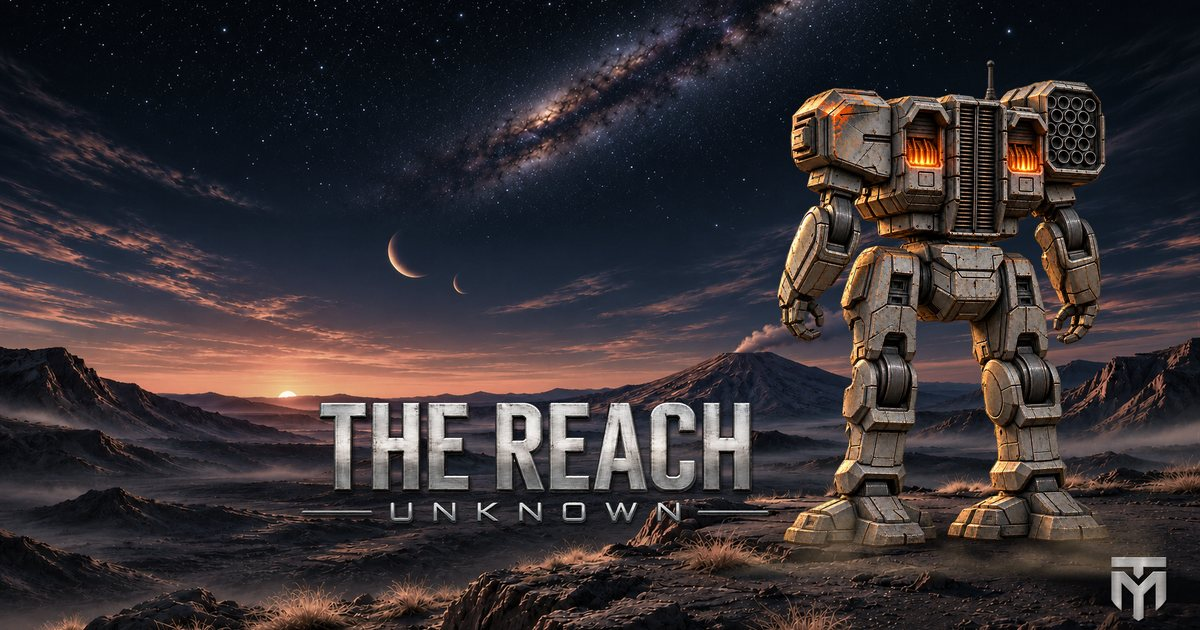
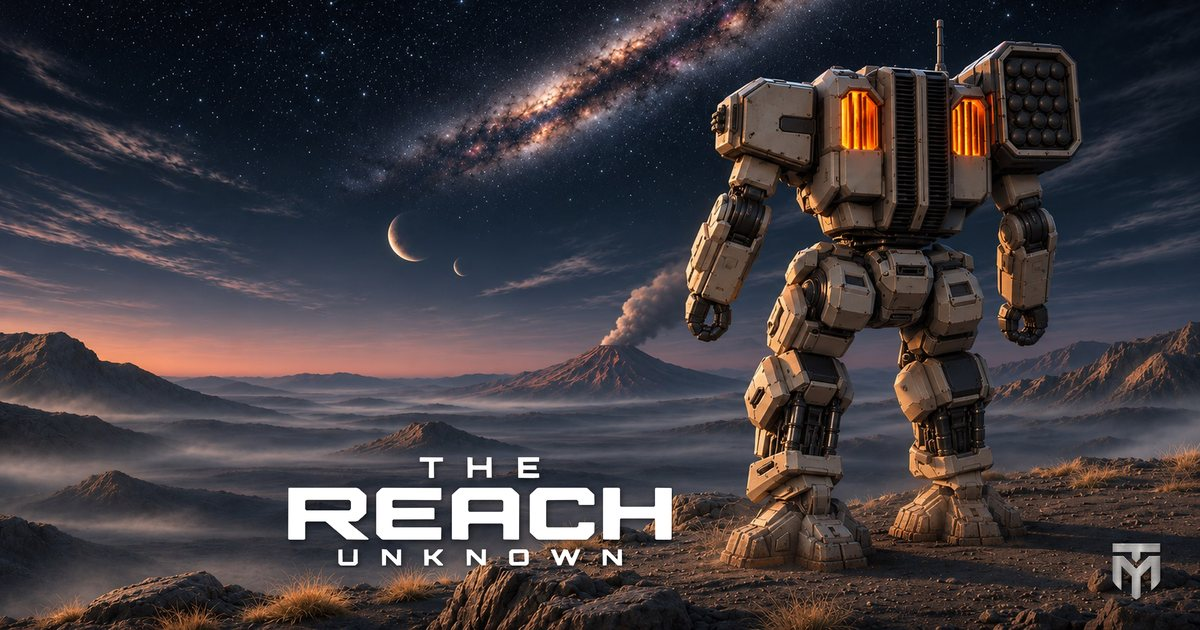
The hero is the new boot screen: VIGIL 2.0 on the ridge under two moons

diff --git a/assets/site.css b/assets/site.css
@@ -223,25 +223,20 @@ h3 { font-size: 1rem; letter-spacing: 0.14em; text-transform: uppercase; }
 /* A 16:9 stage that covers the screen, so every layer sits where the boot screen puts it
    (Assets/Resources/TitleShot/TitleShot_Layout.json). */
 .hero__stage {
-  /* When the screen is narrower than 16:9 the stage is cropped at the sides. The crop centres on 58.4%, midway
-     between the title's left edge (24.4%) and the VIGIL's right edge (92.5%), so both stay in frame down to 5:4,
-     and it never slides past either edge of the sky. */
+  /* When the screen is narrower than 16:9 the stage is cropped at the sides. The crop centres on 55%, midway
+     between the title's left edge (20%) and the VIGIL's right edge (90%, its rocket pod, in the boot screen), so both
+     stay in frame down to 5:4, and it never slides past either edge of the picture. */
   --stage-w: max(100%, max(100svh, 560px) * 16 / 9);
   position: absolute; top: 50%;
-  left: clamp(calc(100% - var(--stage-w)), calc(50% - 0.584 * var(--stage-w)), 0px);
+  left: clamp(calc(100% - var(--stage-w)), calc(50% - 0.55 * var(--stage-w)), 0px);
   width: var(--stage-w); aspect-ratio: 16 / 9;
   transform: translateY(-50%);
 }
 .hero__sky, .hero__sky img { position: absolute; inset: 0; width: 100%; height: 100%; }
 .hero__sky img { object-fit: cover; }
-/* 2026-11-11: the title shot's VIGIL with its shadow behind it and its dust in front, one group that moves as
-   one. The group is the three layers' union rect; each layer sits in it by its own rect, so the group can be placed and
-   scaled on a narrow screen without the shadow and dust leaving the feet. */
-.hero__mech { position: absolute; left: 57.448%; top: 9.607%; width: 42.552%; height: 87.755%; }
-.hero__shadow { position: absolute; left: 6.732%; top: 79.636%; width: 93.268%; height: 20.364%; }
-.hero__vigil { position: absolute; left: 17.075%; top: 0; width: 65.239%; height: 86.6%; object-fit: contain; }
-.hero__dust { position: absolute; left: 0; top: 72.356%; width: 100%; height: 20.259%; }
-.hero__copy { position: absolute; left: 24.39%; top: 55%; width: 40.46%; }
+/* The words run from 20% across to 57%, where the VIGIL's left arm starts in the picture: wide enough for both buttons in
+   one row on a 1280-wide screen. */
+.hero__copy { position: absolute; left: 20%; top: 55%; width: 37%; }
 .hero__title img { width: 100%; filter: drop-shadow(0 10px 30px rgba(0, 0, 0, 0.6)); }
 /* The trademark sign follows the whole title, so it sits at the top-right of UNKNOWN, whose letters end 79.9% across
    the title image and start 78.7% down; the right-hand rule begins at 83.3%, so the sign fits in the gap before it. */
@@ -300,11 +295,26 @@ h3 { font-size: 1rem; letter-spacing: 0.14em; text-transform: uppercase; }
 /* Tall and narrow screens: the stage would crop the title, so the layers stack instead. */
 @media (max-aspect-ratio: 5/4) {
   .hero__stage { inset: 0; left: 0; top: 0; width: 100%; height: 100%; aspect-ratio: auto; transform: none; }
-  .hero__sky img { object-position: 58% 50%; }
-  /* The group stands where the VIGIL alone stood (right -4%, feet 17% up, 41% tall): its height is the VIGIL's over 86.6%,
-     and `translate` (which the parallax's `transform` leaves alone) moves it right by the 17.687% of its width past the
-     VIGIL's right edge. The shadow and dust run off the screen's edge. */
-  .hero__mech { left: auto; right: -4%; top: auto; bottom: 10.656%; width: auto; height: 47.344%; aspect-ratio: 0.862042; translate: 17.687% 0; }
+  /* 2026-11-24: the VIGIL is part of the picture now, so the picture itself takes the middle band, cropped round the VIGIL
+     (57-90% across); its night sky fades into the page above, its ground below. The band starts where the countdown ends
+     (the words start at the bar plus 5svh; the title is 1600x455, as wide as the screen up to 560px; the line and the
+     countdown take about 100px more) and stops above the buttons (68px up, about 92px tall), so the VIGIL's antenna
+     clears the countdown and its feet clear the buttons. A band wider than 16:9 (a near-square window) would cut the VIGIL
+     off at the legs, so the band is never wider than 16:9: there it shows the whole picture, centred, its sides faded too;
+     on a phone it is the screen's width and cropped round the VIGIL. `translate`, not `transform`: the parallax owns that. {CC} */
+  .hero__sky {
+    --band-top: calc(var(--top-height) + 5svh + min(100vw - 2 * var(--gutter), 560px) * 0.2844 + 100px);
+    --band-bottom: calc(160px + env(safe-area-inset-bottom, 0px));
+    inset: auto; top: var(--band-top); bottom: var(--band-bottom); left: 50%; translate: -50% 0; height: auto;
+    /* The hero is max(100svh, 560px) tall, so the band is that less its top and foot. */
+    width: min(100%, (max(100svh, 560px) - var(--band-top) - var(--band-bottom)) * 16 / 9);
+    -webkit-mask-image: linear-gradient(to bottom, transparent, #000 12%, #000 90%, transparent),
+                        linear-gradient(to right, transparent, #000 6%, #000 94%, transparent);
+    -webkit-mask-composite: source-in;
+            mask-image: linear-gradient(to bottom, transparent, #000 12%, #000 90%, transparent),
+                        linear-gradient(to right, transparent, #000 6%, #000 94%, transparent);
+            mask-composite: intersect; }
+  .hero__sky img { object-position: 88% 50%; }
   .hero__copy { left: var(--gutter); right: var(--gutter); top: calc(var(--top-height) + 5svh); width: auto; }
   .hero__title { max-width: 560px; }
   /* 2026-11-04, from the phone review ("A little cramped", then "Move the button down and center the tag line don't
@@ -1500,8 +1510,6 @@ a.log__frame:hover { box-shadow: 0 0 0 1px var(--accent); }
 }
 @media (max-width: 560px) and (max-aspect-ratio: 5/4) {
   .has-signup .hero__copy { bottom: calc(52px + env(safe-area-inset-bottom, 0px)); }
-  /* The VIGIL's feet at 17% + 36px and its height 41% - 36px, as the group (see .hero__mech above). */
-  .has-signup .hero__mech { bottom: calc(10.656% + 41.57px); height: calc(47.344% - 41.57px); }
 }
 @media (min-width: 1221px) { .has-signup .bar__nav [data-discord] { display: none; } }
 

diff --git a/thereach/index.html b/thereach/index.html
@@ -87,15 +87,15 @@
   }
   </script>
 
-  <link rel="icon" href="/favicon.svg?v=a33c8c72" type="image/svg+xml">
-  <link rel="icon" href="/favicon-32.png?v=a33c8c72" sizes="32x32" type="image/png">
+  <link rel="icon" href="/favicon.svg?v=b5734e23" type="image/svg+xml">
+  <link rel="icon" href="/favicon-32.png?v=b5734e23" sizes="32x32" type="image/png">
   <link rel="apple-touch-icon" href="/apple-touch-icon.png">
 
   <link rel="preload" href="/assets/fonts/BarlowCondensed/BarlowCondensed-SemiBold.ttf" as="font" type="font/ttf" crossorigin>
-  <link rel="preload" href="/assets/img/sky-2560.webp" as="image" media="(min-width: 1281px)">
-  <link rel="preload" href="/assets/img/sky-1280.webp" as="image" media="(max-width: 1280px)">
-  <link rel="stylesheet" href="/assets/site.css?v=a33c8c72">
-  <link rel="stylesheet" href="/drop/drop.css?v=a33c8c72">
+  <link rel="preload" href="/assets/img/boot-2560.webp" as="image" media="(min-width: 1281px)">
+  <link rel="preload" href="/assets/img/boot-1280.webp" as="image" media="(max-width: 1280px)">
+  <link rel="stylesheet" href="/assets/site.css?v=b5734e23">
+  <link rel="stylesheet" href="/drop/drop.css?v=b5734e23">
   <script>
     // Boarding: arriving from another site opens on the shipboard network, which assets/site.js draws. Nothing is
     // stored in the browser (the privacy page promises that): a reload, Back, or a link from this site skips it. This
@@ -110,20 +110,20 @@
       }
     } catch (error) { /* no boarding screen */ }
   </script>
-  <script src="/assets/ship.js?v=a33c8c72" defer></script>
-  <script src="/assets/prealpha.js?v=a33c8c72" defer></script>
-  <script src="/assets/crossing.js?v=a33c8c72" defer></script>
-  <script src="/assets/site.js?v=a33c8c72" defer></script>
-  <script src="/drop/drop.js?v=a33c8c72" defer></script>
-  <script src="/assets/patch.js?v=a33c8c72" defer></script>
-  <script src="/assets/patchmaker.js?v=a33c8c72" defer></script>
-  <script src="/assets/front.js?v=a33c8c72" defer></script>
-  <script src="/assets/loadouts.js?v=a33c8c72" defer></script>
-  <script src="/assets/bench.js?v=a33c8c72" defer></script>
-  <script src="/assets/valor.js?v=a33c8c72" defer></script>
-  <script src="/assets/ranks.js?v=a33c8c72" defer></script>
-  <script src="/assets/story.js?v=a33c8c72" defer></script>
-  <script src="/assets/lands.js?v=a33c8c72" defer></script>
+  <script src="/assets/ship.js?v=b5734e23" defer></script>
+  <script src="/assets/prealpha.js?v=b5734e23" defer></script>
+  <script src="/assets/crossing.js?v=b5734e23" defer></script>
+  <script src="/assets/site.js?v=b5734e23" defer></script>
+  <script src="/drop/drop.js?v=b5734e23" defer></script>
+  <script src="/assets/patch.js?v=b5734e23" defer></script>
+  <script src="/assets/patchmaker.js?v=b5734e23" defer></script>
+  <script src="/assets/front.js?v=b5734e23" defer></script>
+  <script src="/assets/loadouts.js?v=b5734e23" defer></script>
+  <script src="/assets/bench.js?v=b5734e23" defer></script>
+  <script src="/assets/valor.js?v=b5734e23" defer></script>
+  <script src="/assets/ranks.js?v=b5734e23" defer></script>
+  <script src="/assets/story.js?v=b5734e23" defer></script>
+  <script src="/assets/lands.js?v=b5734e23" defer></script>
 </head>
 <body>
   <a class="skip" href="#main">Skip to content</a>
@@ -180,18 +180,13 @@
   </nav>
 
   <main id="main">
-    <!-- HERO: the boot screen's night title shot, layer for layer. -->
+    <!-- HERO: the game's v1.18 boot screen, VIGIL 2.0 in it; the title and the words are laid on here. -->
     <section class="hero" id="top" data-section aria-label="The Reach: Unknown">
       <div class="hero__stage" data-parallax-root>
         <picture class="hero__sky" data-depth="0.35">
-          <source media="(min-width: 1281px)" srcset="/assets/img/sky-2560.webp">
-          <img src="/assets/img/sky-1280.webp" alt="" width="1280" height="720" fetchpriority="high">
+          <source media="(min-width: 1281px)" srcset="/assets/img/boot-2560.webp">
+          <img src="/assets/img/boot-1280.webp" alt="The VX-21 VIGIL seen from behind on a ridge at dusk, its vents glowing, looking out under two moons" width="1280" height="720" fetchpriority="high">
         </picture>
-        <div class="hero__mech" data-depth="0.18">
-          <img class="hero__shadow" src="/assets/img/vigil-shadow.webp" alt="" width="1300" height="329">
-          <img class="hero__vigil" src="/assets/img/vigil.webp" alt="The VX-21 VIGIL, weathered and battle-worn, seen from behind on a ridge at night, its vents glowing" width="974" height="1500">
-          <img class="hero__dust" src="/assets/img/vigil-dust.webp" alt="" width="1400" height="329">
-        </div>
         <!-- 2026-11-04: the words scroll with the page, solid until they leave it. They had drifted at half speed under the
              hero's clipped edge and faded over the first half screen, so the buttons and the countdown were dim on a small scroll. -->
         <div class="hero__copy">

diff --git a/hangar/index.html b/hangar/index.html
@@ -19,18 +19,18 @@
   <meta name="twitter:site" content="@MachTuckGames">
   <meta name="twitter:image:alt" content="The Hangar: the VX-21 VIGIL in four paints">
   <meta name="theme-color" content="#07090d">
-  <link rel="icon" href="/favicon.svg?v=a33c8c72" type="image/svg+xml">
-  <link rel="icon" href="/favicon-32.png?v=a33c8c72" sizes="32x32" type="image/png">
+  <link rel="icon" href="/favicon.svg?v=b5734e23" type="image/svg+xml">
+  <link rel="icon" href="/favicon-32.png?v=b5734e23" sizes="32x32" type="image/png">
   <link rel="apple-touch-icon" href="/apple-touch-icon.png">
   <link rel="preload" href="/hangar/bay/plate.webp" as="image">
   <link rel="preload" href="/hangar/spin/base/vigil-000.webp" as="image">
-  <link rel="stylesheet" href="/assets/site.css?v=a33c8c72">
-  <link rel="stylesheet" href="/hangar/hangar.css?v=a33c8c72">
-  <script src="/assets/ship.js?v=a33c8c72" defer></script>
-  <script src="/assets/prealpha.js?v=a33c8c72" defer></script>
-  <script src="/assets/site.js?v=a33c8c72" defer></script>
-  <script src="/assets/loadouts.js?v=a33c8c72" defer></script>
-  <script src="/hangar/hangar.js?v=a33c8c72" defer></script>
+  <link rel="stylesheet" href="/assets/site.css?v=b5734e23">
+  <link rel="stylesheet" href="/hangar/hangar.css?v=b5734e23">
+  <script src="/assets/ship.js?v=b5734e23" defer></script>
+  <script src="/assets/prealpha.js?v=b5734e23" defer></script>
+  <script src="/assets/site.js?v=b5734e23" defer></script>
+  <script src="/assets/loadouts.js?v=b5734e23" defer></script>
+  <script src="/hangar/hangar.js?v=b5734e23" defer></script>
 </head>
 <body>
   <a class="skip" href="#hangar">Skip to content</a>

diff --git a/physics/index.html b/physics/index.html
@@ -19,15 +19,15 @@
   <meta name="twitter:site" content="@MachTuckGames">
   <meta name="twitter:image:alt" content="The Reach: Unknown title beside the VX-21 VIGIL mech on a ridge at dusk">
   <meta name="theme-color" content="#07090d">
-  <link rel="icon" href="/favicon.svg?v=a33c8c72" type="image/svg+xml">
-  <link rel="icon" href="/favicon-32.png?v=a33c8c72" sizes="32x32" type="image/png">
+  <link rel="icon" href="/favicon.svg?v=b5734e23" type="image/svg+xml">
+  <link rel="icon" href="/favicon-32.png?v=b5734e23" sizes="32x32" type="image/png">
   <link rel="apple-touch-icon" href="/apple-touch-icon.png">
-  <link rel="stylesheet" href="/assets/site.css?v=a33c8c72">
-  <link rel="stylesheet" href="/physics/physics.css?v=a33c8c72">
-  <script src="/assets/ship.js?v=a33c8c72" defer></script>
-  <script src="/assets/prealpha.js?v=a33c8c72" defer></script>
-  <script src="/assets/site.js?v=a33c8c72" defer></script>
-  <script src="/physics/physics.js?v=a33c8c72" defer></script>
+  <link rel="stylesheet" href="/assets/site.css?v=b5734e23">
+  <link rel="stylesheet" href="/physics/physics.css?v=b5734e23">
+  <script src="/assets/ship.js?v=b5734e23" defer></script>
+  <script src="/assets/prealpha.js?v=b5734e23" defer></script>
+  <script src="/assets/site.js?v=b5734e23" defer></script>
+  <script src="/physics/physics.js?v=b5734e23" defer></script>
 </head>
 <body>
   <a class="skip" href="#physics">Skip to content</a>

diff --git a/armory/index.html b/armory/index.html
@@ -19,15 +19,15 @@
   <meta name="twitter:site" content="@MachTuckGames">
   <meta name="twitter:image:alt" content="The Reach: Unknown title beside the VX-21 VIGIL mech on a ridge at dusk">
   <meta name="theme-color" content="#07090d">
-  <link rel="icon" href="/favicon.svg?v=a33c8c72" type="image/svg+xml">
-  <link rel="icon" href="/favicon-32.png?v=a33c8c72" sizes="32x32" type="image/png">
+  <link rel="icon" href="/favicon.svg?v=b5734e23" type="image/svg+xml">
+  <link rel="icon" href="/favicon-32.png?v=b5734e23" sizes="32x32" type="image/png">
   <link rel="apple-touch-icon" href="/apple-touch-icon.png">
-  <link rel="stylesheet" href="/assets/site.css?v=a33c8c72">
-  <link rel="stylesheet" href="/armory/armory.css?v=a33c8c72">
-  <script src="/assets/ship.js?v=a33c8c72" defer></script>
-  <script src="/assets/prealpha.js?v=a33c8c72" defer></script>
-  <script src="/assets/site.js?v=a33c8c72" defer></script>
-  <script src="/armory/armory.js?v=a33c8c72" defer></script>
+  <link rel="stylesheet" href="/assets/site.css?v=b5734e23">
+  <link rel="stylesheet" href="/armory/armory.css?v=b5734e23">
+  <script src="/assets/ship.js?v=b5734e23" defer></script>
+  <script src="/assets/prealpha.js?v=b5734e23" defer></script>
+  <script src="/assets/site.js?v=b5734e23" defer></script>
+  <script src="/armory/armory.js?v=b5734e23" defer></script>
 </head>
 <body>
   <a class="skip" href="#armory">Skip to content</a>

diff --git a/assets/prealpha.js b/assets/prealpha.js
@@ -10,7 +10,7 @@
    * Not pictures of the game, or already labelled: the marks and the title lettering, the page's sky, the chapter buttons and a land's
    * thumbnails (the big picture above them carries it), and the war table, which draws its own.
    */
-  const NOT_A_PICTURE = ".bar__brand, .foot__brand, .doc-bar, .studio__mark, .hero__copy, .world__sky, .tiles, .land__thumbs, .upg__coin, .hero__shadow, .hero__dust, [data-frontmap], [data-no-label], img[src*='wordmark'], img[src*='title'], img[src*='/mt-']";
+  const NOT_A_PICTURE = ".bar__brand, .foot__brand, .doc-bar, .studio__mark, .hero__copy, .world__sky, .tiles, .land__thumbs, .upg__coin, [data-frontmap], [data-no-label], img[src*='wordmark'], img[src*='title'], img[src*='/mt-']";
 
   /** What holds a picture and its label, where the picture's parent would be too small or would move with it. */
   const HOLDERS = ".crossing__stage, .hero__stage, .open, .kit__scene, .stage__view, .archive__view, .story__art, .reach-map__frame, .land__shot, .pillars__art, .game__medals, .join__art, .bay, .lbay__bay, .piece__stage, .ord__art, .salv__frame, .salv__crate, figure, li";

diff --git a/presskit/index.html b/presskit/index.html
@@ -19,12 +19,12 @@
   <meta name="twitter:card" content="summary_large_image">
   <meta name="twitter:site" content="@MachTuckGames">
   <meta name="twitter:image:alt" content="The Reach: Unknown title beside the VX-21 VIGIL mech on a ridge at dusk">
-  <link rel="icon" href="/favicon.svg?v=a33c8c72" type="image/svg+xml">
-  <link rel="icon" href="/favicon-32.png?v=a33c8c72" sizes="32x32" type="image/png">
-  <link rel="stylesheet" href="/assets/site.css?v=a33c8c72">
-  <script src="/assets/site.js?v=a33c8c72" defer></script>
-  <script src="/assets/prealpha.js?v=a33c8c72" defer></script>
-  <script src="/presskit/presskit.js?v=a33c8c72" defer></script>
+  <link rel="icon" href="/favicon.svg?v=b5734e23" type="image/svg+xml">
+  <link rel="icon" href="/favicon-32.png?v=b5734e23" sizes="32x32" type="image/png">
+  <link rel="stylesheet" href="/assets/site.css?v=b5734e23">
+  <script src="/assets/site.js?v=b5734e23" defer></script>
+  <script src="/assets/prealpha.js?v=b5734e23" defer></script>
+  <script src="/presskit/presskit.js?v=b5734e23" defer></script>
 </head>
 <body class="doc-page">
   <header class="doc-bar">

diff --git a/front/index.html b/front/index.html
@@ -19,8 +19,8 @@
 <meta name="twitter:card" content="summary_large_image">
 <meta name="twitter:site" content="@MachTuckGames">
 <meta name="twitter:image:alt" content="The Reach: Unknown title beside the VX-21 VIGIL mech on a ridge at dusk">
-<link rel="icon" href="/favicon.svg?v=a33c8c72" type="image/svg+xml">
-<link rel="icon" href="/favicon-32.png?v=a33c8c72" sizes="32x32" type="image/png">
+<link rel="icon" href="/favicon.svg?v=b5734e23" type="image/svg+xml">
+<link rel="icon" href="/favicon-32.png?v=b5734e23" sizes="32x32" type="image/png">
 <link rel="apple-touch-icon" href="/apple-touch-icon.png">
 <!-- The Front explorer: the game's map plate over the explorer's ridged relief (Tools/front/explorer/bake_explorer_relief.py),
      drawn with the site's war-table engine (Website/assets/front.js). Assembled into one offline file by build_explorer.py:

diff --git a/claim/index.html b/claim/index.html
@@ -8,10 +8,10 @@
   <!-- Where the game's Service Record sends a pilot with a link code (CallsignCloud.LinkCode). Linked from the game, not the site. -->
   <meta name="robots" content="noindex">
   <meta name="theme-color" content="#07090d">
-  <link rel="icon" href="/favicon.svg?v=a33c8c72" type="image/svg+xml">
-  <link rel="icon" href="/favicon-32.png?v=a33c8c72" sizes="32x32" type="image/png">
-  <link rel="stylesheet" href="/assets/site.css?v=a33c8c72">
-  <script src="/assets/site.js?v=a33c8c72" defer></script>
+  <link rel="icon" href="/favicon.svg?v=b5734e23" type="image/svg+xml">
+  <link rel="icon" href="/favicon-32.png?v=b5734e23" sizes="32x32" type="image/png">
+  <link rel="stylesheet" href="/assets/site.css?v=b5734e23">
+  <script src="/assets/site.js?v=b5734e23" defer></script>
 </head>
 <body class="doc-page">
   <header class="doc-bar">

diff --git a/welcome/index.html b/welcome/index.html
@@ -8,10 +8,10 @@
   <!-- Where Kit sends a pilot after the closed beta form (the form's redirect setting in Kit). Linked from nowhere on the site. -->
   <meta name="robots" content="noindex">
   <meta name="theme-color" content="#07090d">
-  <link rel="icon" href="/favicon.svg?v=a33c8c72" type="image/svg+xml">
-  <link rel="icon" href="/favicon-32.png?v=a33c8c72" sizes="32x32" type="image/png">
-  <link rel="stylesheet" href="/assets/site.css?v=a33c8c72">
-  <script src="/assets/site.js?v=a33c8c72" defer></script>
+  <link rel="icon" href="/favicon.svg?v=b5734e23" type="image/svg+xml">
+  <link rel="icon" href="/favicon-32.png?v=b5734e23" sizes="32x32" type="image/png">
+  <link rel="stylesheet" href="/assets/site.css?v=b5734e23">
+  <script src="/assets/site.js?v=b5734e23" defer></script>
 </head>
 <body class="doc-page">
   <header class="doc-bar">

diff --git a/art/index.html b/art/index.html
@@ -19,9 +19,9 @@
   <meta name="twitter:site" content="@MachTuckGames">
   <meta name="twitter:image:alt" content="The Reach: Unknown title beside the VX-21 VIGIL mech on a ridge at dusk">
   <meta name="theme-color" content="#07090d">
-  <link rel="icon" href="/favicon.svg?v=a33c8c72" type="image/svg+xml">
-  <link rel="icon" href="/favicon-32.png?v=a33c8c72" sizes="32x32" type="image/png">
-  <link rel="stylesheet" href="/assets/site.css?v=a33c8c72">
+  <link rel="icon" href="/favicon.svg?v=b5734e23" type="image/svg+xml">
+  <link rel="icon" href="/favicon-32.png?v=b5734e23" sizes="32x32" type="image/png">
+  <link rel="stylesheet" href="/assets/site.css?v=b5734e23">
 </head>
 <body class="doc-page">
   <header class="doc-bar">

diff --git a/community-terms/index.html b/community-terms/index.html
@@ -19,9 +19,9 @@
   <meta name="twitter:site" content="@MachTuckGames">
   <meta name="twitter:image:alt" content="The Reach: Unknown title beside the VX-21 VIGIL mech on a ridge at dusk">
   <meta name="theme-color" content="#07090d">
-  <link rel="icon" href="/favicon.svg?v=a33c8c72" type="image/svg+xml">
-  <link rel="icon" href="/favicon-32.png?v=a33c8c72" sizes="32x32" type="image/png">
-  <link rel="stylesheet" href="/assets/site.css?v=a33c8c72">
+  <link rel="icon" href="/favicon.svg?v=b5734e23" type="image/svg+xml">
+  <link rel="icon" href="/favicon-32.png?v=b5734e23" sizes="32x32" type="image/png">
+  <link rel="stylesheet" href="/assets/site.css?v=b5734e23">
 </head>
 <body class="doc-page">
   <header class="doc-bar">
